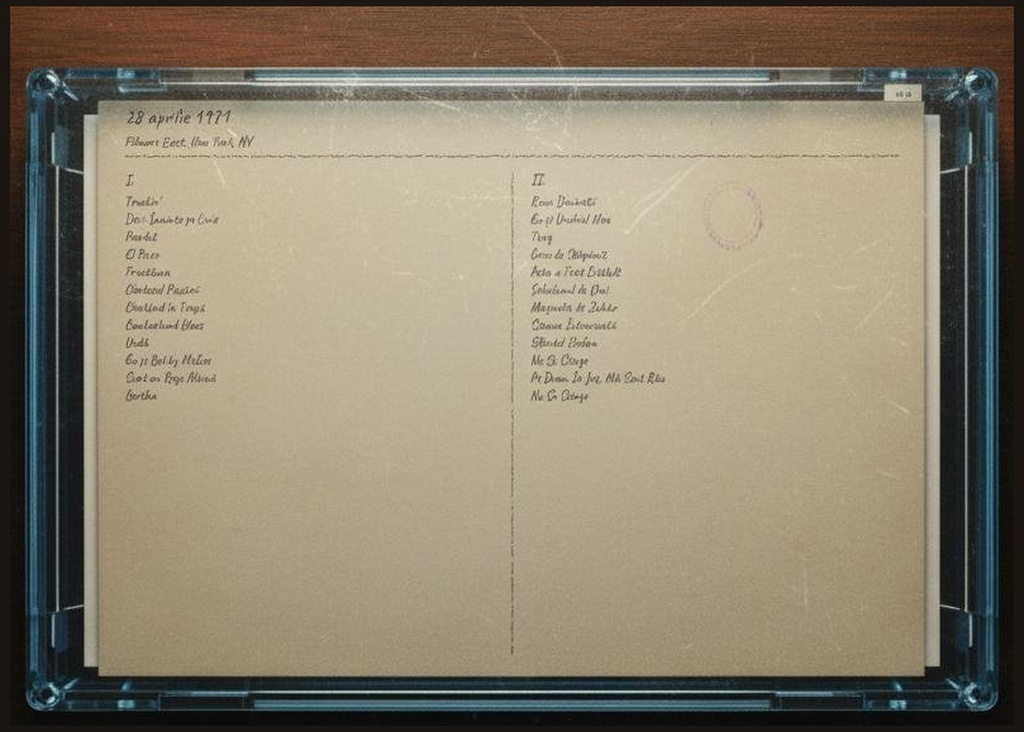
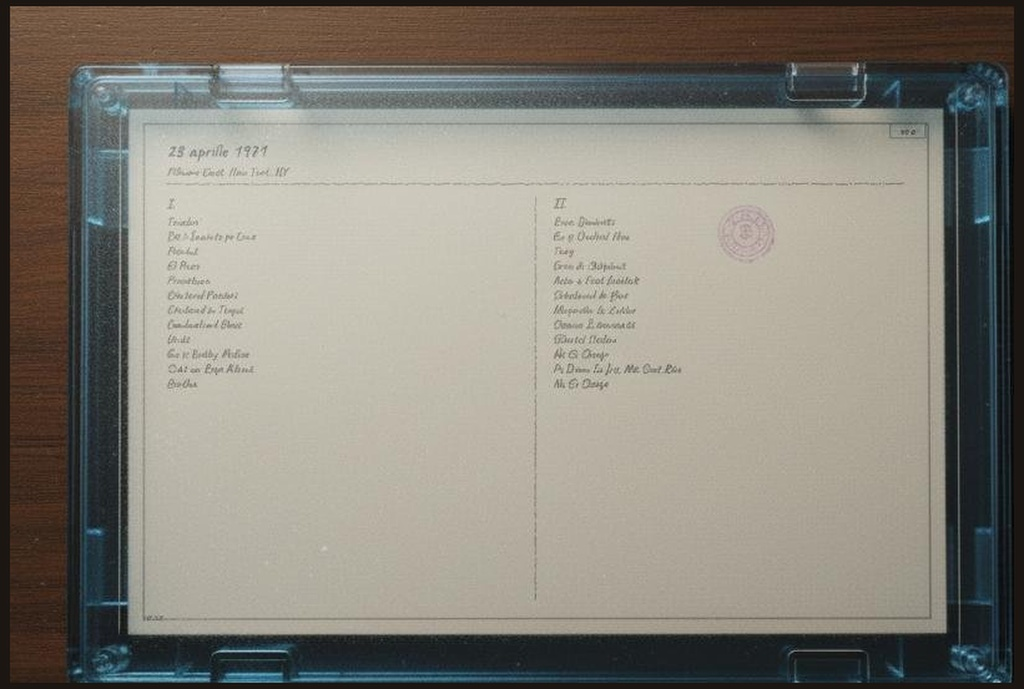
Fix last 3: regenerate 4/28, trim 4/8 and 8/25 tighter, cache bust v5

diff --git a/redo.html b/redo.html
@@ -30,7 +30,7 @@
   <h2>Young Bettys (7 cards) — Circles Removed</h2>
 
   <div class="card">
-    <img src="www/jcards/gd69-03-02.sbd.16track.kaplan.3344.sbeok.shnf.jpg?v=4" onclick="enlarge(this)">
+    <img src="www/jcards/gd69-03-02.sbd.16track.kaplan.3344.sbeok.shnf.jpg?v=5" onclick="enlarge(this)">
     <div class="card-info">
       <div class="card-date">Mar 2, 1969 — Fillmore West, San Francisco</div>
       <div class="card-issue">Was: coffee stain circle</div>
@@ -38,7 +38,7 @@
   </div>
 
   <div class="card">
-    <img src="www/jcards/gd71-04-27.sbd.murphy.2221.sbeok.shnf.jpg?v=4" onclick="enlarge(this)">
+    <img src="www/jcards/gd71-04-27.sbd.murphy.2221.sbeok.shnf.jpg?v=5" onclick="enlarge(this)">
     <div class="card-info">
       <div class="card-date">Apr 27, 1971 — Fillmore East, New York</div>
       <div class="card-issue">Was: circle</div>
@@ -46,7 +46,7 @@
   </div>
 
   <div class="card">
-    <img src="www/jcards/gd1971-04-28.sbd.miller.106099.flac16.jpg?v=4" onclick="enlarge(this)">
+    <img src="www/jcards/gd1971-04-28.sbd.miller.106099.flac16.jpg?v=5" onclick="enlarge(this)">
     <div class="card-info">
       <div class="card-date">Apr 28, 1971 — Fillmore East, New York</div>
       <div class="card-issue">Was: circle (took 3 tries — Gemini kept drawing tape reels)</div>
@@ -54,7 +54,7 @@
   </div>
 
   <div class="card">
-    <img src="www/jcards/gd1972-03-23.sbd.miller.100000.sbeok.flac16.jpg?v=4" onclick="enlarge(this)">
+    <img src="www/jcards/gd1972-03-23.sbd.miller.100000.sbeok.flac16.jpg?v=5" onclick="enlarge(this)">
     <div class="card-info">
       <div class="card-date">Mar 23, 1972 — Academy of Music, New York</div>
       <div class="card-issue">Was: circle</div>
@@ -62,7 +62,7 @@
   </div>
 
   <div class="card">
-    <img src="www/jcards/gd1972-04-08.sbd.miller.83714.sbeok.flac16.jpg?v=4" onclick="enlarge(this)">
+    <img src="www/jcards/gd1972-04-08.sbd.miller.83714.sbeok.flac16.jpg?v=5" onclick="enlarge(this)">
     <div class="card-info">
       <div class="card-date">Apr 8, 1972 — Wembley Empire Pool, London</div>
       <div class="card-issue">Was: circle</div>
@@ -70,7 +70,7 @@
   </div>
 
   <div class="card">
-    <img src="www/jcards/gd1972-08-25.sbd.miller.92840.sbeok.flac16.jpg?v=4" onclick="enlarge(this)">
+    <img src="www/jcards/gd1972-08-25.sbd.miller.92840.sbeok.flac16.jpg?v=5" onclick="enlarge(this)">
     <div class="card-info">
       <div class="card-date">Aug 25, 1972 — Berkeley Community Theatre</div>
       <div class="card-issue">Was: circles (plural)</div>
@@ -78,7 +78,7 @@
   </div>
 
   <div class="card">
-    <img src="www/jcards/gd72-09-21.sbd.masse.7296.sbeok.shnf.jpg?v=4" onclick="enlarge(this)">
+    <img src="www/jcards/gd72-09-21.sbd.masse.7296.sbeok.shnf.jpg?v=5" onclick="enlarge(this)">
     <div class="card-info">
       <div class="card-date">Sep 21, 1972 — The Spectrum, Philadelphia</div>
       <div class="card-issue">Was: circle</div>
@@ -90,7 +90,7 @@
   <h2>New Animal (4 cards) — Estonian Fixed, Overflow Fixed</h2>
 
   <div class="card">
-    <img src="www/jcards/gd1979-05-05.sbd.miller.fishmanj-repitch.78748.flac16.jpg?v=4" onclick="enlarge(this)">
+    <img src="www/jcards/gd1979-05-05.sbd.miller.fishmanj-repitch.78748.flac16.jpg?v=5" onclick="enlarge(this)">
     <div class="card-info">
       <div class="card-date">May 5, 1979 — Baltimore Civic Center</div>
       <div class="card-issue">Was: English text, must be Estonian</div>
@@ -98,7 +98,7 @@
   </div>
 
   <div class="card">
-    <img src="www/jcards/gd79-10-27.sbd.clugston.13980.sbeok.shnf.jpg?v=4" onclick="enlarge(this)">
+    <img src="www/jcards/gd79-10-27.sbd.clugston.13980.sbeok.shnf.jpg?v=5" onclick="enlarge(this)">
     <div class="card-info">
       <div class="card-date">Oct 27, 1979 — Cape Cod Coliseum</div>
       <div class="card-issue">Was: English text, must be Estonian</div>
@@ -106,7 +106,7 @@
   </div>
 
   <div class="card">
-    <img src="www/jcards/gd79-11-02.sbd.macdonald.7920.sbeok.shnf.jpg?v=4" onclick="enlarge(this)">
+    <img src="www/jcards/gd79-11-02.sbd.macdonald.7920.sbeok.shnf.jpg?v=5" onclick="enlarge(this)">
     <div class="card-info">
       <div class="card-date">Nov 2, 1979 — Nassau Coliseum, Uniondale</div>
       <div class="card-issue">Was: English text + wrong font</div>
@@ -114,7 +114,7 @@
   </div>
 
   <div class="card">
-    <img src="www/jcards/gd80-12-31.sbd.gorinsky.6391.sbeok.shnf.jpg?v=4" onclick="enlarge(this)">
+    <img src="www/jcards/gd80-12-31.sbd.gorinsky.6391.sbeok.shnf.jpg?v=5" onclick="enlarge(this)">
     <div class="card-info">
       <div class="card-date">Dec 31, 1980 — Oakland Auditorium Arena</div>
       <div class="card-issue">Was: text cut off (30 tracks)</div>
